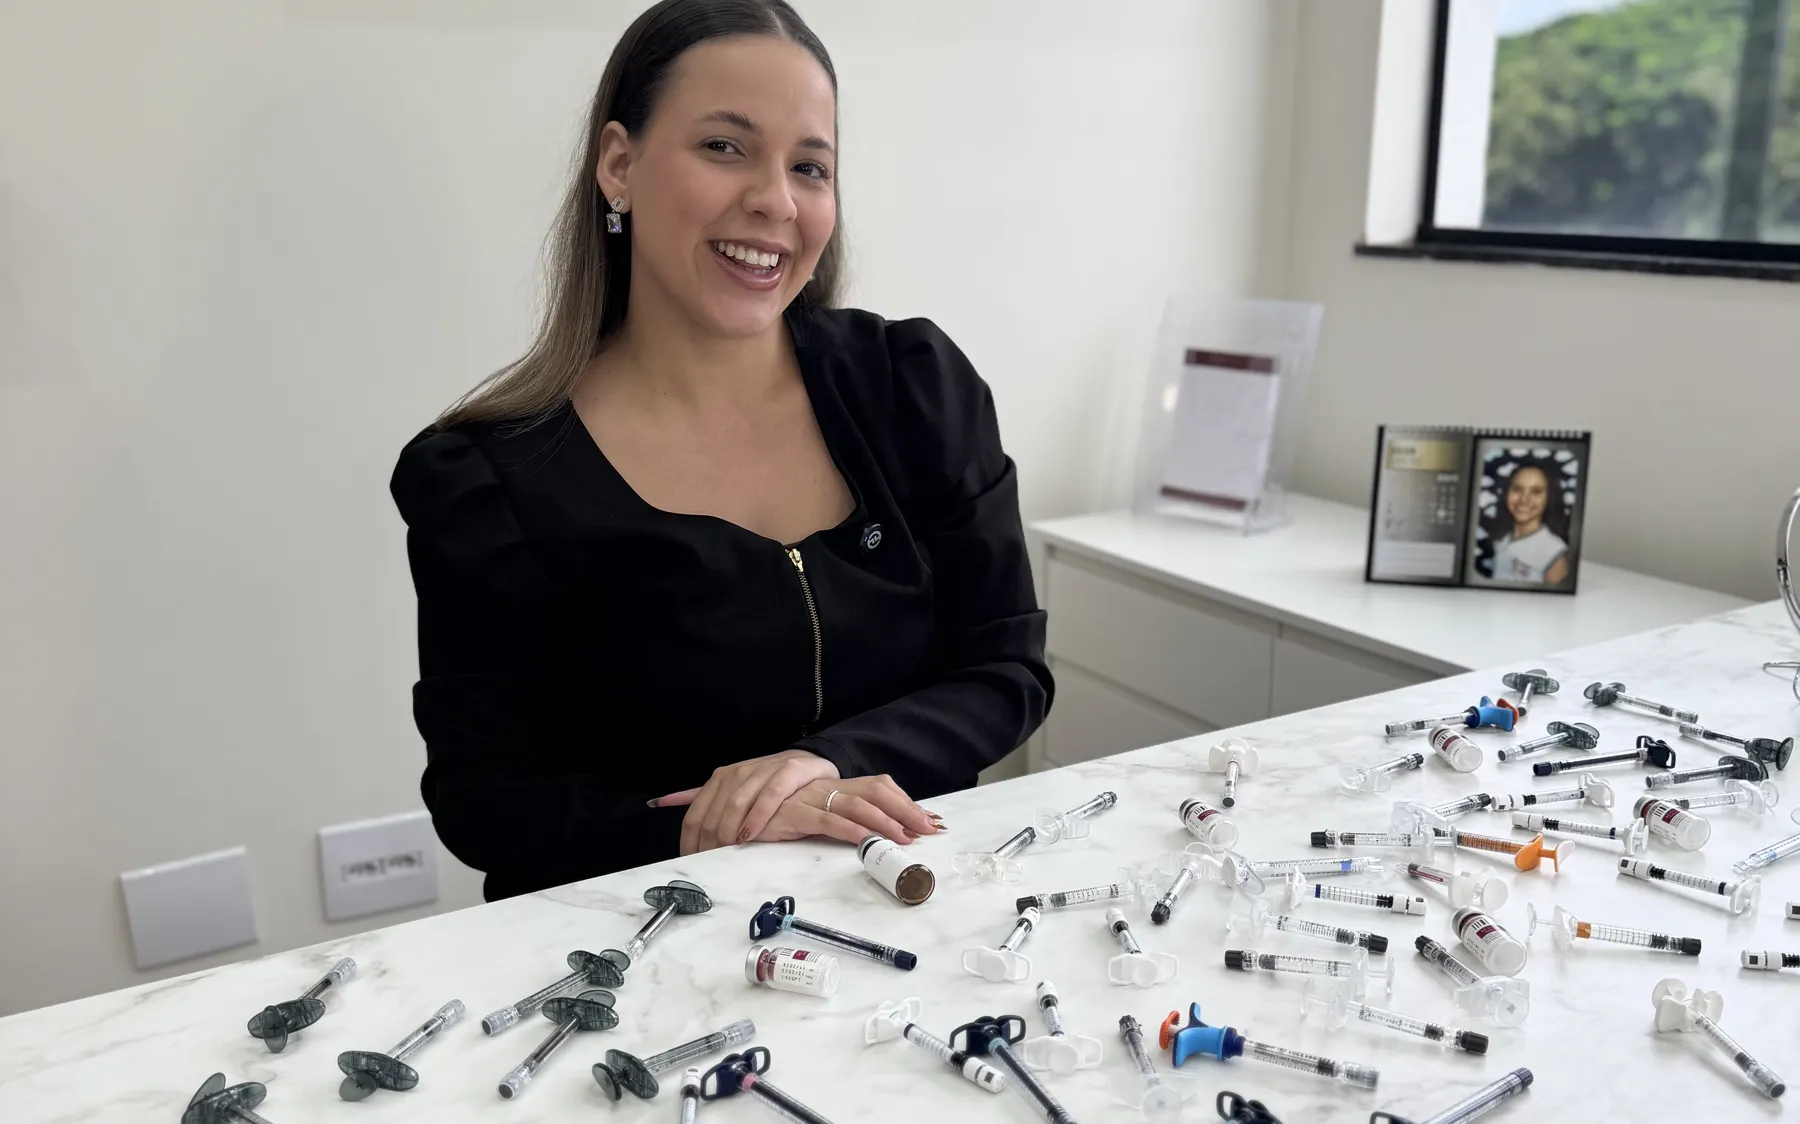
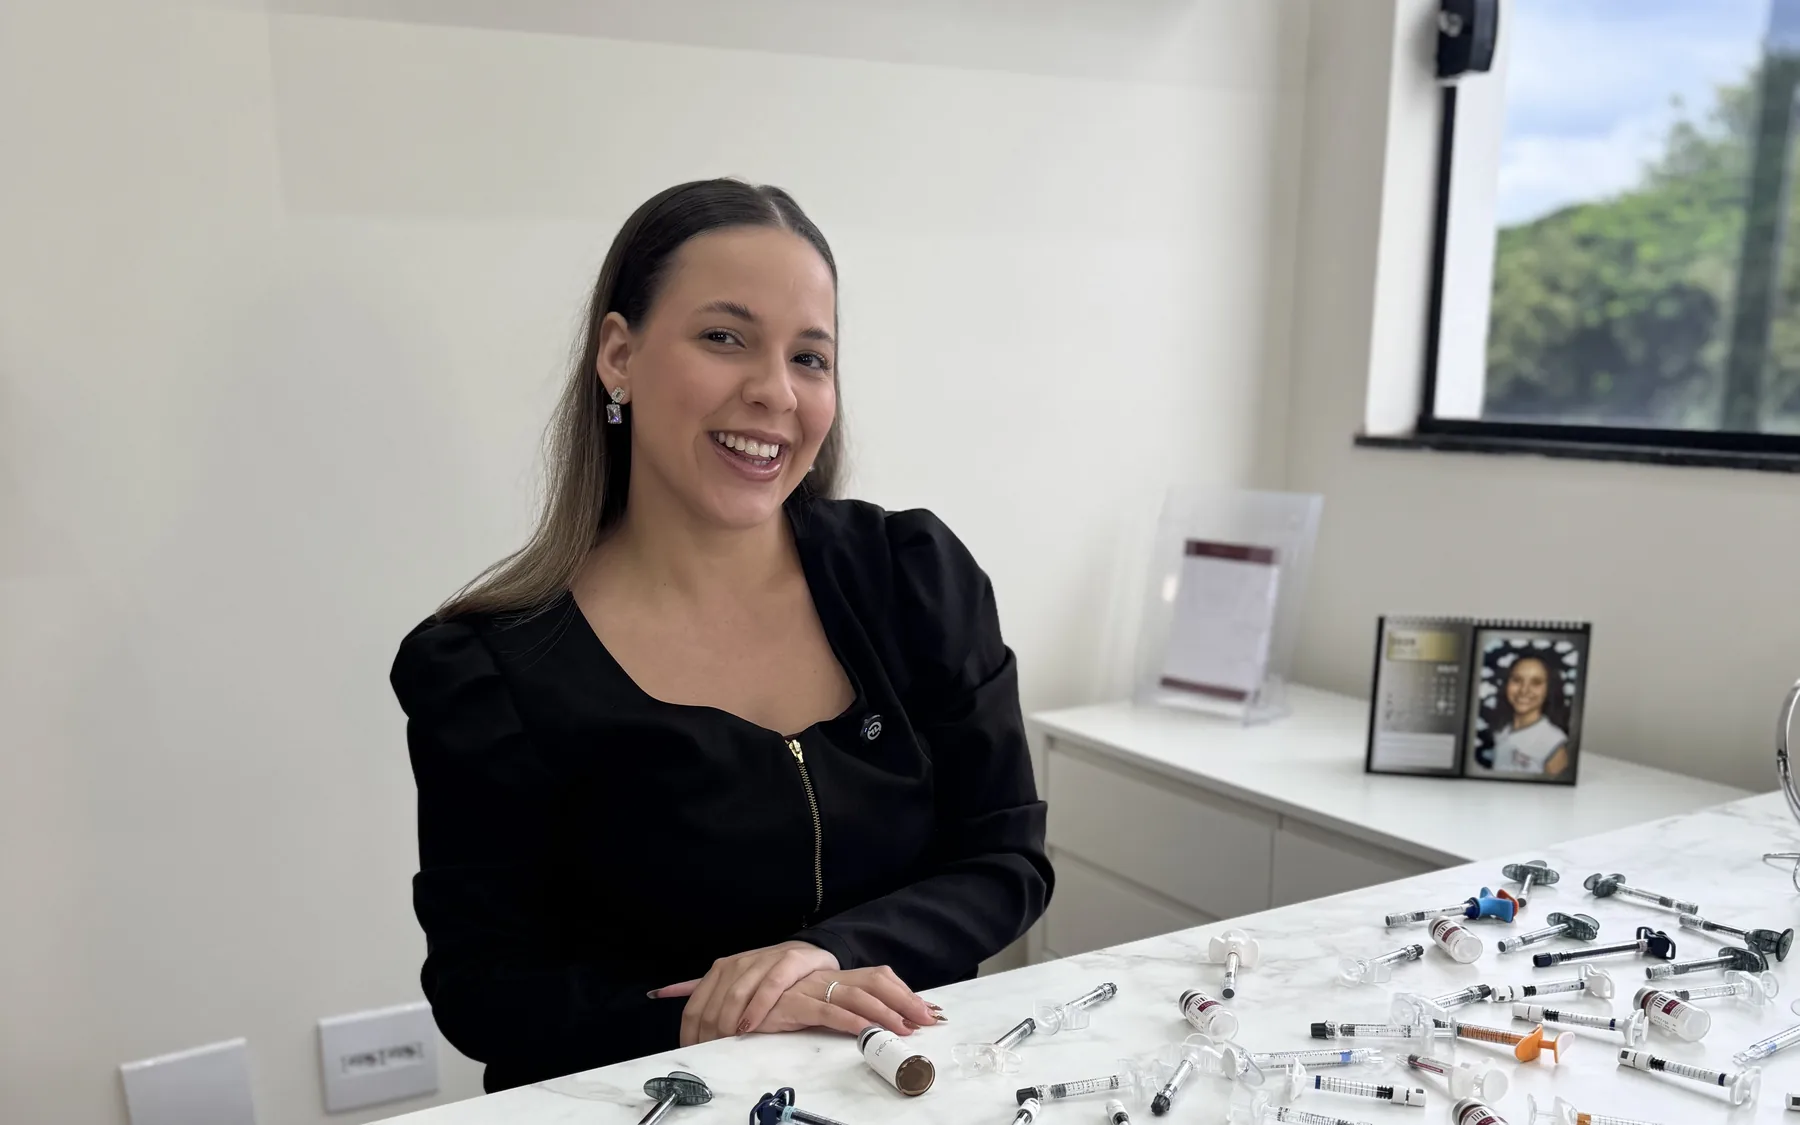
Refaz os recortes dos capítulos 3 e 8 sem cortar o rosto
Os recortes anteriores centravam a foto e, em telas 16:9, o
object-fit somado ao zoom cortava os olhos da profissional.
Agora os recortes partem dos originais com folga acima da
cabeça, o ponto focal fica no alto (object-position) e o zoom
dessas duas cenas é mais suave. O texto do capítulo 3 vai para
o lado direito, que é o lado calmo da nova foto.

Claude-Session: https://claude.ai/code/session_013KKTREQBpctcUFr41BneMF

diff --git a/index.html b/index.html
@@ -64,12 +64,12 @@
       <div class="jstage">
         <div class="jlayer" data-i="0" data-in="-0.01,0" data-out="0.096,0.126" data-zoom="1.04,1.15" data-drift="0,-12"><img src="/assets/img/hero-j1.webp" alt="" width="1800" height="1125" fetchpriority="high" aria-hidden="true"></div>
         <div class="jlayer" data-i="1" data-in="0.096,0.126" data-out="0.207,0.237" data-zoom="1.13,1.04" data-drift="8,0"><img src="/assets/img/ja-02-recepcao.webp" alt="" width="1200" height="750" aria-hidden="true"></div>
-        <div class="jlayer" data-i="2" data-in="0.207,0.237" data-out="0.318,0.348" data-zoom="1.05,1.14" data-drift="0,-10"><img src="/assets/img/ja-03-bruna.webp" alt="" width="1800" height="1124" loading="lazy" aria-hidden="true"></div>
+        <div class="jlayer" data-i="2" data-in="0.207,0.237" data-out="0.318,0.348" data-zoom="1.02,1.08" data-drift="0,-5"><img src="/assets/img/ja-03-bruna.webp" alt="" width="1800" height="1125" loading="lazy" aria-hidden="true" style="object-position: 50% 20%"></div>
         <div class="jlayer" data-i="3" data-in="0.318,0.348" data-out="0.429,0.459" data-zoom="1.14,1.05" data-drift="-8,0"><img src="/assets/img/ja-04-facial.webp" alt="" width="1800" height="1125" loading="lazy" aria-hidden="true"></div>
         <div class="jlayer" data-i="4" data-in="0.429,0.459" data-out="0.541,0.571" data-zoom="1.04,1.13" data-drift="0,-10"><img src="/assets/img/ja-05-corporal.webp" alt="" width="1200" height="750" loading="lazy" aria-hidden="true"></div>
         <div class="jlayer" data-i="5" data-in="0.541,0.571" data-out="0.652,0.682" data-zoom="1.13,1.04" data-drift="8,0"><img src="/assets/img/ja-06-tecnologia.webp" alt="" width="1800" height="1124" loading="lazy" aria-hidden="true"></div>
         <div class="jlayer" data-i="6" data-in="0.652,0.682" data-out="0.763,0.793" data-zoom="1.05,1.14" data-drift="0,-10"><img src="/assets/img/ja-07-produtos.webp" alt="" width="1800" height="1124" loading="lazy" aria-hidden="true"></div>
-        <div class="jlayer" data-i="7" data-in="0.763,0.793" data-out="0.874,0.904" data-zoom="1.12,1.05" data-drift="-6,0"><img src="/assets/img/ja-08-fundo.webp" alt="" width="1800" height="1125" loading="lazy" aria-hidden="true"></div>
+        <div class="jlayer" data-i="7" data-in="0.763,0.793" data-out="0.874,0.904" data-zoom="1.07,1.02" data-drift="-4,0"><img src="/assets/img/ja-08-fundo.webp" alt="" width="1800" height="1125" loading="lazy" aria-hidden="true" style="object-position: 50% 22%"></div>
         <div class="jlayer" data-i="8" data-in="0.874,0.904" data-out="1.01,1.02" data-zoom="1.10,1.03" data-drift="-8,0"><img src="/assets/img/hero-j3.webp" alt="" width="1800" height="1125" loading="lazy" aria-hidden="true"></div>
         <div class="jscrim" aria-hidden="true"></div>
         <div class="jgrain" aria-hidden="true"></div>
@@ -84,7 +84,7 @@
           <p class="jtitle jblur"><span class="soft" aria-hidden="true">Um lugar pensado para você chegar, respirar e se cuidar.</span><span class="sharp">Um lugar pensado para você chegar, respirar e se cuidar.</span></p>
         </div>
 
-        <div class="jband" data-range="0.239,0.316" data-pos="ml">
+        <div class="jband" data-range="0.239,0.316" data-pos="mr">
           <p class="jkicker">Quem cuida de você</p>
           <p class="jtitle" data-split>Conduzida por Bruna Ramos.</p>
           <p class="jsub">À frente de cada avaliação e de cada protocolo.</p>
